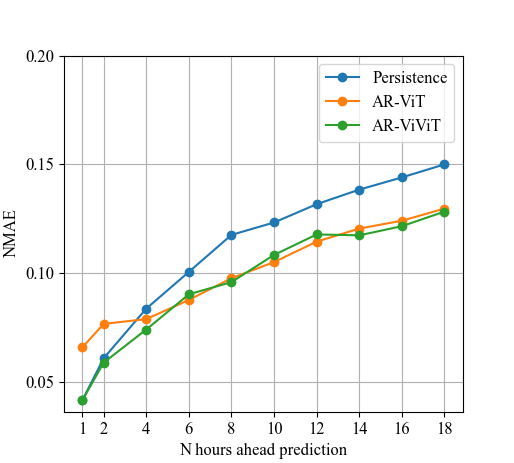
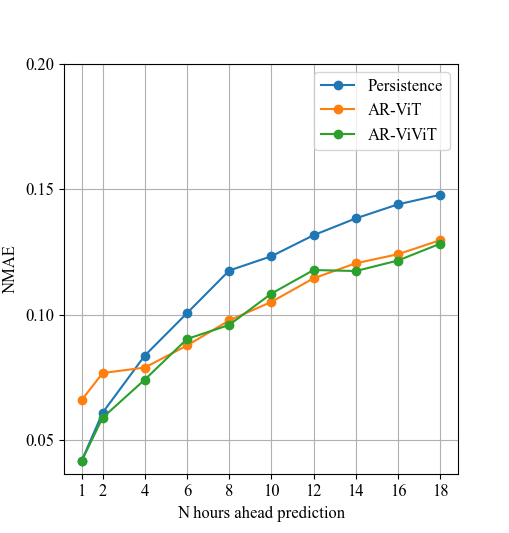
paper finished

diff --git a/arena/src/plots.py b/arena/src/plots.py
@@ -17,7 +17,7 @@ persistence_forecast = [0.0416,
 0.1317,
 0.1384,
 0.1440,
-0.1500]
+0.1478]
 ViT = [0.0659,
 0.0767,
 0.0789,
